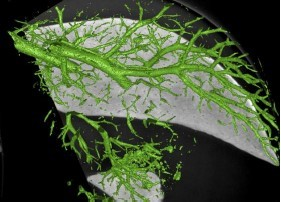
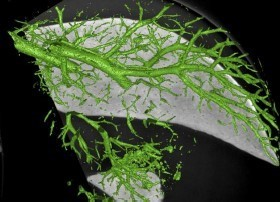
Multiple changes 3

diff --git a/_includes/sidebar.html b/_includes/sidebar.html
@@ -8,6 +8,8 @@
    {% if member.email %}<a href="mailto:{{ member.email }}" target="_blank"><i class="fa fa-envelope-square fa-3x"></i></a> {% endif %}
    {% if member.cv %} <a href="{{ site.url }}{{ site.baseurl }}/{{ member.cv }}" target="_blank"><i class="ai ai-cv-square ai-3x"></i></a> {% endif %}
    {% if member.scholar %} <a href="{{ member.scholar }}" target="_blank"><i class="ai ai-google-scholar-square ai-3x"></i></a> {% endif %}
+   {% if member.orcid %} <a href="{{ member.orcid }}" target="_blank"><i class="ai ai-orcid-square ai-3x"></i></a> {% endif %}
+   {% if member.hal %} <a href="{{ member.hal }}" target="_blank"><i class="ai ai-hal-square ai-3x"></i></a> {% endif %}
    {% if member.github %} <a href="{{ member.github }}" target="_blank"><i class="fa fa-github-square fa-3x"></i></a> {% endif %}
    {% if member.researchgate %} <a href="{{ member.researchgate }}" target="_blank"><i class="ai ai-researchgate-square ai-3x"></i></a> {% endif %}
   </div>

diff --git a/_includes/footer.html b/_includes/footer.html
@@ -21,8 +21,8 @@
 
 			<center>
 				<p>
-					Last updated on 11/03/2025<br />
-					<!-- Last updated on {{page.date | date: "-d %b"}}<br/> -->
+					<!-- Last updated on 11/03/2025<br /> -->
+					Last updated on {{ page.date | date: "%d %b %Y" }}<br/>
 					&copy {{ "now" | date: "%Y" }} {{site.title | escape }}<br />
 					Website customized from <a
 						href="https://github.com/sbryngelson/academic-website-template">template</a> by <a

diff --git a/_layouts/supervision.html b/_layouts/supervision.html
@@ -1,0 +1,6 @@
+---
+layout: default
+---
+<div id="supervision" class="col-sm-12">
+  {{ content }}
+</div>

diff --git a/_pages/about.md b/_pages/about.md
@@ -3,6 +3,7 @@ title: "About"
 layout: gridlay
 sitemap: false
 permalink: /about/
+date: 12-03-2025
 ---
 
 ## About
@@ -24,7 +25,7 @@ permalink: /about/
   {% if member.cv %} <a href="{{ site.url }}{{ site.baseurl }}/{{ member.cv }}" target="_blank"><i class="ai ai-cv-square ai-3x"></i></a> {% endif %}
   {% if member.scholar %} <a href="{{ member.scholar }}" target="_blank"><i class="ai ai-google-scholar-square ai-3x"></i></a> {% endif %}
   {% if member.orcid %} <a href="{{ member.orcid }}" target="_blank"><i class="ai ai-orcid-square ai-3x"></i></a> {% endif %}
-  {% if member.orcid %} <a href="{{ member.hal }}" target="_blank"><i class="ai ai-hal-square ai-3x"></i></a> {% endif %}
+  {% if member.hal %} <a href="{{ member.hal }}" target="_blank"><i class="ai ai-hal-square ai-3x"></i></a> {% endif %}
   {% if member.github %} <a href="{{ member.github }}" target="_blank"><i class="fa fa-github-square fa-3x"></i></a> {% endif %}
   {% if member.researchgate %} <a href="{{ member.researchgate }}" target="_blank"><i class="ai ai-researchgate-square ai-3x"></i></a> {% endif %}
 
@@ -39,18 +40,6 @@ permalink: /about/
 </div>
 {% endfor %}
 
-{% if site.data.grants %}
-
-<div class="jumbotron">
-  <h3>Grants</h3>
-  <ul>
-    {% for grant in site.data.grants %}
-      <li>{{ grant.name }}</li>
-    {% endfor %}
-  </ul>
-</div>
-{% endif %}
-
 {% if site.data.awards %}
 
 <div class="jumbotron">
@@ -58,22 +47,6 @@ permalink: /about/
   <ul>
     {% for award in site.data.awards %}
       <li>{{ award.name | replace: "-","&#8211;" }}</li>
-    {% endfor %}
-  </ul>
-</div>
-{% endif %}
-
-{% if site.data.people %}
-
-<div class="jumbotron">
-  <h3>Students and Mentoring</h3>
-  <ul>
-    {% for student in site.data.people %}
-      <li>
-        {{ student.name }}, {{ student.location }} ({{ student.degree }}, {{ student.year }})
-        <br/>
-        <i> {{ student.subject }} </i>
-      </li>
     {% endfor %}
   </ul>
 </div>

diff --git a/_pages/home.md b/_pages/home.md
@@ -3,27 +3,22 @@ title: "Home"
 layout: homelay
 sitemap: false
 permalink: /
-date: "11-03-2025"
+date: "12-03-2025"
 ---
 
 ### Welcome!
-
-Theoretical physics is a branch of physics that focuses on the development of mathematical models and theories to understand and explain natural phenomena.
-It plays a crucial role in our understanding of the fundamental laws of the universe and the fundamental particles that make up all matter.
-Research in theoretical physics helps us to make predictions about how the universe works and to test these predictions through experiments.
-It also helps us to understand the fundamental principles that govern the behavior of matter and energy, and to explore the limits of our current knowledge.
-Theoretical physics helps us to make progress in a wide range of fields, including cosmology, particle physics, and quantum mechanics, and it has led to many important discoveries and technological innovations.
+On this website, you will find information about my academic experience, my actual teaching in the field of Computer science and my past and actual research activities.<br/>
+Feel free to contact me by <a href="mailto:hugo.rositi@loria.fr">mail</a> for any kind of requests (project proposal, publication access, internships opportunity, <i>etc.</i>).
 
 <div class="container">
 <div class="row">
 <center>
 <img src="{{ site.url }}{{ site.baseurl }}/images/Liver_Vasculature_XPCT_Merola2020b.jpg" width="100%"/><br/>
-Examples of Feynman diagrams. <br/>
-Feynman R., The theory of positrons. <i>Phys. Rev.</i> (1949)
+Visualization of the hepatic vascular networks automatically extracted and superimposed on reconstructed phase contrast images from synchrotron radiation. <i>Work realised in 2020</i>.
 </center>
 </div>
 </div>
 <br/>
 
 ### About me
-aa
+Associate professor in Computer Science since 2016.

diff --git a/_pages/supervision.md b/_pages/supervision.md
@@ -1,0 +1,23 @@
+---
+title: "Home"
+layout: homelay
+sitemap: false
+permalink: /supervision/
+date: "12-03-2025"
+---
+
+{% if site.data.people %}
+
+<div class="jumbotron">
+  <h3>Students and Mentoring</h3>
+  <ul>
+    {% for student in site.data.people %}
+      <li>
+        {{ student.name }}, {{ student.location }} ({{ student.degree }}) [{{ student.year }}, {{ student.duration }}]
+        <br/>
+        <p><i> {{ student.subject }} </i></p>
+      </li>
+    {% endfor %}
+  </ul>
+</div>
+{% endif %}

diff --git a/_pages/research.md b/_pages/research.md
@@ -3,6 +3,7 @@ title: "Research"
 layout: gridlay
 sitemap: false
 permalink: /research/
+date: 12-03-2025
 ---
 
 <style>
@@ -39,3 +40,15 @@ iframe {
 Example description
 </div>
 </div>
+
+{% if site.data.grants %}
+
+<div class="jumbotron">
+  <h3>Grants</h3>
+  <ul>
+    {% for grant in site.data.grants %}
+      <li>{{ grant.name }}</li>
+    {% endfor %}
+  </ul>
+</div>
+{% endif %}

diff --git a/_pages/publications.md b/_pages/publications.md
@@ -4,6 +4,7 @@ layout: gridlay
 sitemap: false
 permalink: /publications/
 years: [2016, 2017, 2018, 2019, 2020, 2021, 2022, 2023, 2024, 2025]
+date: 12-03-2025
 ---
 
 <style>

diff --git a/_pages/allnews.md b/_pages/allnews.md
@@ -3,6 +3,7 @@ title: "News"
 layout: textlay
 sitemap: false
 permalink: /allnews.html
+date: 12-03-2025
 ---
 
 ## News
